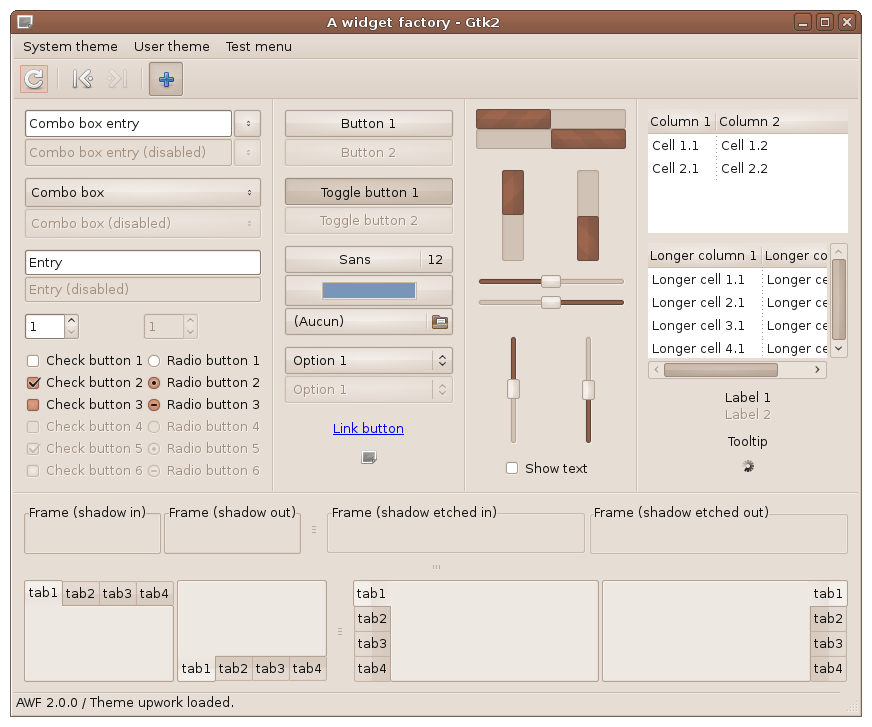
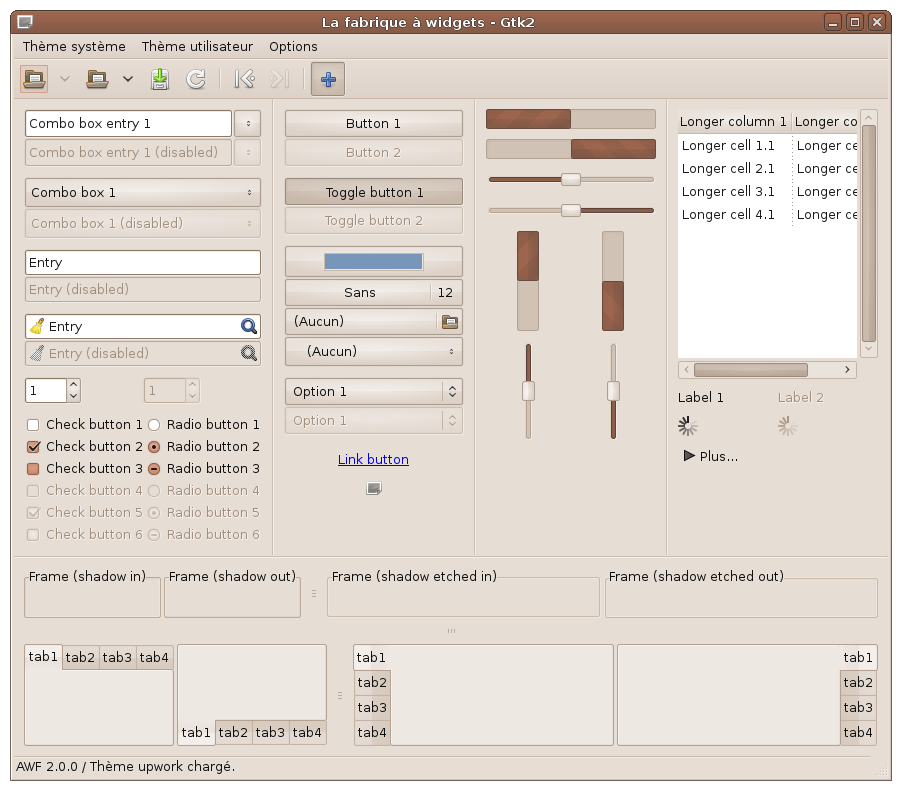
update images and readme

diff --git a/README.md b/README.md
@@ -6,12 +6,12 @@ A widget factory is a theme preview application for gtk2 and gtk3. It displays t
 
 ## Installation
 
-It require *gtk2* (2.24+) and *gtk3* (3.0+ including 3.24+).
+It require *gtk2* (2.24+) and *gtk3* (3.0+ including 3.24).
 
 * From source:
 ```
 apt install dh-autoreconf libgtk2.0-dev libgtk-3-dev
-bash build.sh
+./build.sh
 ```
 * From Debian/Ubuntu: (not yet available)
 ```
@@ -19,6 +19,11 @@ apt install awf
 ```
 
 ## Screenshots
+
+* The options menu allow to run some standard dialogs.
+* The plus toolbar button show/hide: arrows on notebooks, text on progress bars and scales, marks on scales.
+* The refresh toolbar button and the refresh menuitem allow to reload the current theme.
+* Some options are available from command line (read -h).
 
 ![A widget factory - Gtk2](images/gtk2.png?raw=true)
 ![A widget factory - Gtk2](images/gtk3.png?raw=true)
